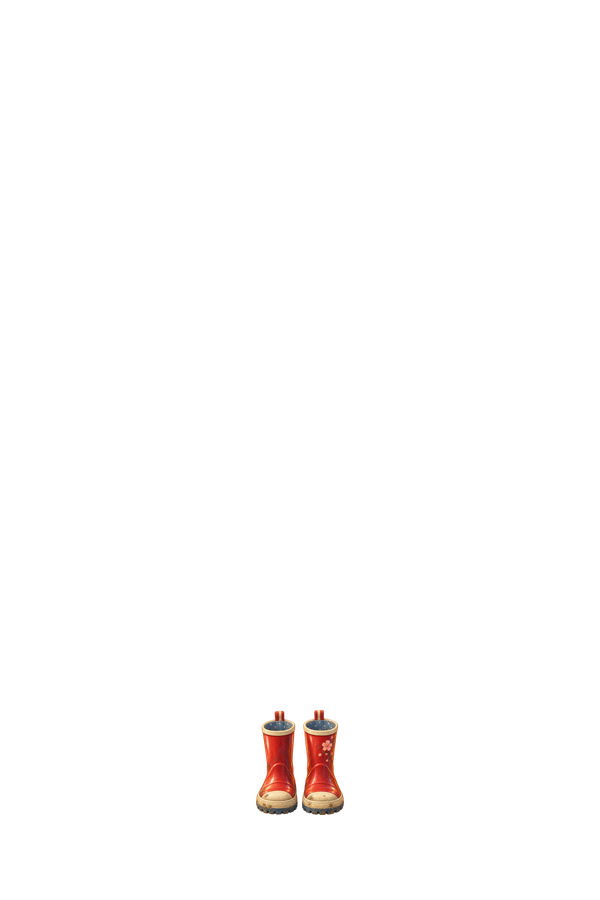
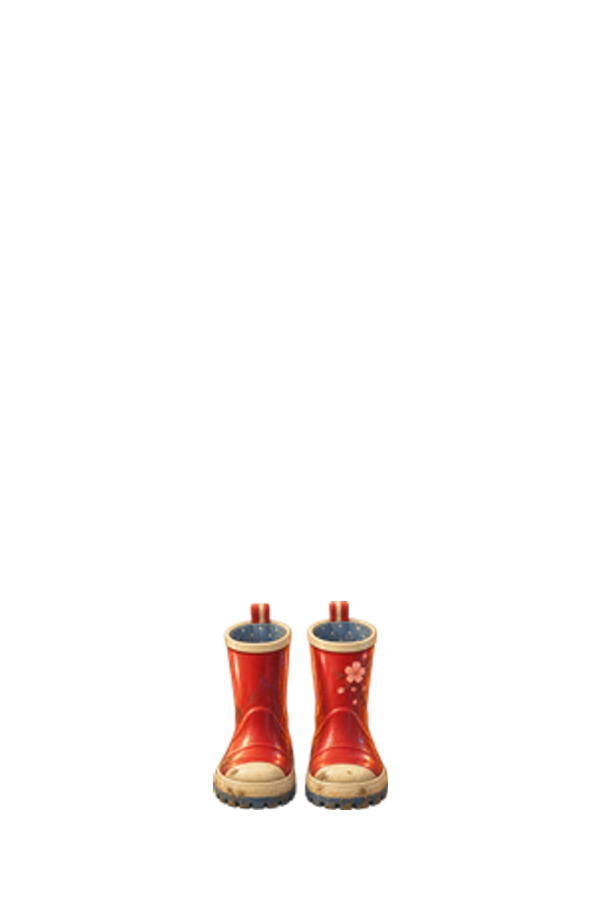
Fix API build errors, doll body-to-garment scale, and layering order
API errors (Vercel's build uses NodeNext module resolution, stricter than
local tsconfig.server.json):
- Added explicit .js extensions to relative imports across server/closet/*.ts
  and api/admin/closet/*.ts
- Added `with { type: 'json' }` import attribute for garmentManifest.ts's
  JSON import
- Fixed a Buffer/BlobPart type mismatch in openaiClient.ts

Body-to-garment scale calibration:
- Measured the doll's actual body/vector-fallback widths at each documented
  anchor line. At ankleY the bare leg is ~150px and both bottom-garment
  fallbacks land at 146-189px wide, but the 3 shoe assets were only 68-115px
  — the shoes slot's height:105 forced every shoe (including naturally taller
  high-tops/boots) to downscale far more than intended. Rescaled all 3 shoe
  assets to ~175px wide, anchored to the ground line, and corrected
  SLOT_BOUNDS.shoes (height 105 -> 220) so future shoe generations don't
  repeat this.
- Removed the base doll's bare-arm silhouette (hands-in-pockets pose, per
  request) — it doesn't need to be drawn from the front, which also
  eliminates the arm/shoulder mismatch various tops had at the sleeve line.
- Swapped z-index/paint order so bottoms render over shoes and tops render
  over bottoms (natural pant-leg-over-shoe, shirt-tucked-in draping), for
  both the illustrated-layer CSS and the SVG fallback paint order.

Verified across 3 outfit combinations (stripe tee/jeans/high-tops +
raincoat; sunset tee/wide-leg pants/boots; adventure shirt/jeans/
[…]

Changed region(s): [[0.36, 0.6533, 0.66, 0.9022]]

diff --git a/src/LittleJetterApp.tsx b/src/LittleJetterApp.tsx
@@ -69,7 +69,7 @@ type Character = { style: string; skin: string; hair: string; hairStyle: string;
 type SavedLook = { id: string; name: string; picks: Picks; character: Character; colors: GarmentColors };
 
 const CLOSET_GROUPS: ClothingGroup[] = ['bottoms', 'tops', 'layers', 'shoes', 'accessories'];
-const LAYERS = { base: 0, hairBack: 10, bottom: 20, top: 30, dress: 35, shoes: 40, outerwear: 50, hairFront: 60, accessory: 70, hat: 80 } as const;
+const LAYERS = { base: 0, hairBack: 10, shoes: 20, bottom: 25, top: 30, dress: 35, outerwear: 50, hairFront: 60, accessory: 70, hat: 80 } as const;
 
 const gameSheets: Record<PickGroup, string> = {
   tops: '/little-jetter/game-tops.png', bottoms: '/little-jetter/game-bottoms.png', layers: '/little-jetter/game-layers.png',
@@ -118,7 +118,10 @@ function ClassicDoll({ picks, character, garmentColors, onlyLayer, previewViewBo
   return <svg className={`little-aligned-doll ${onlyLayer ? 'little-garment-canvas' : ''}`} viewBox={previewViewBox} style={{ '--top-fill': top, '--bottom-fill': bottom, '--layer-fill': layer ?? 'transparent', '--shoe-fill': shoes } as React.CSSProperties} data-master-canvas="600x900" data-hidden-layers={hiddenLayers.join(' ')} data-only-layer={onlyLayer} data-layer-map={JSON.stringify(LAYERS)} role="img" aria-label={onlyLayer ? `${onlyLayer} garment preview` : `Doll in a base outfit wearing ${wardrobe.tops.find(item=>item.id===picks.tops)?.name}, ${wardrobe.bottoms.find(item=>item.id===picks.bottoms)?.name}, and ${wardrobe.shoes.find(item=>item.id===picks.shoes)?.name}`}>
     <defs><radialGradient id="skinGlow" cx="34%" cy="20%" r="82%"><stop stopColor="#fff" stopOpacity=".48"/><stop offset=".42" stopColor={skin}/><stop offset=".82" stopColor={skin}/><stop offset="1" stopColor="#70432f" stopOpacity=".3"/></radialGradient><linearGradient id="skinBody" x1=".18" y1="0" x2=".82" y2="1"><stop stopColor="#fff" stopOpacity=".3"/><stop offset=".3" stopColor={skin}/><stop offset="1" stopColor="#70432f" stopOpacity=".23"/></linearGradient><linearGradient id="underTop" x1="0" y1="0" x2="1" y2="1"><stop stopColor="#fffdf6"/><stop offset=".55" stopColor="#fff3d8"/><stop offset="1" stopColor="#dfc397"/></linearGradient><linearGradient id="underBottom" x1="0" y1="0" x2="1" y2="1"><stop stopColor="#8eabc2"/><stop offset=".55" stopColor="#607f9d"/><stop offset="1" stopColor="#405f7c"/></linearGradient><linearGradient id="hairShade" x1=".2" y1="0" x2=".8" y2="1"><stop stopColor="#fff" stopOpacity=".24"/><stop offset=".28" stopColor={hair}/><stop offset="1" stopColor="#211a19" stopOpacity=".46"/></linearGradient><linearGradient id="topShade" x1=".15" y1="0" x2=".85" y2="1"><stop stopColor="#fff" stopOpacity=".4"/><stop offset=".45" stopColor={top}/><stop offset="1" stopColor="#173a47" stopOpacity=".2"/></linearGradient><linearGradient id="bottomShade" x1=".1" y1="0" x2=".9" y2="1"><stop stopColor="#fff" stopOpacity=".26"/><stop offset=".42" stopColor={bottom}/><stop offset="1" stopColor="#173a47" stopOpacity=".25"/></linearGradient><linearGradient id="layerShade" x1=".1" y1="0" x2=".9" y2="1"><stop stopColor="#fff" stopOpacity=".4"/><stop offset=".48" stopColor={layer}/><stop offset="1" stopColor="#173a47" stopOpacity=".22"/></linearGradient><linearGradient id="shoeShade" x1=".15" y1="0" x2=".85" y2="1"><stop stopColor="#fff" stopOpacity=".3"/><stop offset=".44" stopColor={shoes}/><stop offset="1" stopColor="#173a47" stopOpacity=".28"/></linearGradient><filter id="softShadow"><feDropShadow dx="0" dy="4" stdDeviation="5" floodColor="#173a47" floodOpacity=".18"/></filter><filter id="neckBlend" x="-60%" y="-60%" width="220%" height="220%"><feGaussianBlur stdDeviation="3.2"/></filter></defs>
     <g transform="scale(1.5)"><ellipse cx="200" cy="520" rx="82" ry="13" fill="#173a47" opacity=".16" filter="url(#softShadow)"/>
-    <g data-layer="base"><path d="M157 220q-24 24-35 83l-8 83q-2 20 14 23 17 2 20-17l12-75 15-53zm86 0q24 24 35 83l8 83q2 20-14 23-17 2-20-17l-12-75-15-53z" fill="url(#skinBody)"/><path d="M174 329l-15 145-8 31q-4 17 12 22 16 4 23-14l14-54 14 54q7 18 23 14 16-5 12-22l-8-31-15-145z" fill="url(#skinBody)"/><path d="M184 194h32l6 32h-44z" fill="url(#skinBody)"/><ellipse cx="200" cy="196" rx="19" ry="7" fill="#70432f" opacity=".14" filter="url(#neckBlend)"/><ellipse cx="200" cy="223" rx="27" ry="9" fill="#70432f" opacity=".22" filter="url(#neckBlend)"/><ellipse cx="143" cy="151" rx="12" ry="18" fill="url(#skinBody)"/><ellipse cx="257" cy="151" rx="12" ry="18" fill="url(#skinBody)"/><circle cx="200" cy="145" r="63" fill="url(#skinGlow)"/><ellipse cx="182" cy="155" rx="12" ry="14" fill="#fffaf4"/><ellipse cx="218" cy="155" rx="12" ry="14" fill="#fffaf4"/><circle cx="182" cy="157" r="7" fill={eyes}/><circle cx="218" cy="157" r="7" fill={eyes}/><circle cx="179" cy="153" r="2.7" fill="white"/><circle cx="215" cy="153" r="2.7" fill="white"/><path d="M169 136q13-8 25 0m12 0q12-8 25 0" fill="none" stroke={hair} strokeOpacity=".7" strokeWidth="4" strokeLinecap="round"/><path d="M201 157q-5 11 1 15" fill="none" stroke="#8d5847" strokeOpacity=".45" strokeWidth="2.5" strokeLinecap="round"/><path d="M184 181q16 15 32 0" fill="#c85f61" fillOpacity=".16" stroke="#9b4d46" strokeWidth="3.2" strokeLinecap="round"/><ellipse cx="163" cy="174" rx="12" ry="7" fill="#ef8f80" opacity=".26"/><ellipse cx="237" cy="174" rx="12" ry="7" fill="#ef8f80" opacity=".26"/>{character.style === 'girl' && <><path d="M169 150l-5-3m68 3 5-3" stroke={hair} strokeWidth="2.5" strokeLinecap="round"/><circle cx="171" cy="173" r="1.5" fill="#9b5b4b" opacity=".5"/><circle cx="176" cy="176" r="1.4" fill="#9b5b4b" opacity=".45"/><circle cx="229" cy="173" r="1.5" fill="#9b5b4b" opacity=".5"/><circle cx="224" cy="176" r="1.4" fill="#9b5b4b" opacity=".45"/></>}</g>
+    {/* Arms are tucked behind the back (hands-in-pockets pose) — not drawn from
+     the front, so no bare-arm shape has to visually match every top's sleeve
+     coverage at the shoulder line. */}
+    <g data-layer="base"><path d="M174 329l-15 145-8 31q-4 17 12 22 16 4 23-14l14-54 14 54q7 18 23 14 16-5 12-22l-8-31-15-145z" fill="url(#skinBody)"/><path d="M184 194h32l6 32h-44z" fill="url(#skinBody)"/><ellipse cx="200" cy="196" rx="19" ry="7" fill="#70432f" opacity=".14" filter="url(#neckBlend)"/><ellipse cx="200" cy="223" rx="27" ry="9" fill="#70432f" opacity=".22" filter="url(#neckBlend)"/><ellipse cx="143" cy="151" rx="12" ry="18" fill="url(#skinBody)"/><ellipse cx="257" cy="151" rx="12" ry="18" fill="url(#skinBody)"/><circle cx="200" cy="145" r="63" fill="url(#skinGlow)"/><ellipse cx="182" cy="155" rx="12" ry="14" fill="#fffaf4"/><ellipse cx="218" cy="155" rx="12" ry="14" fill="#fffaf4"/><circle cx="182" cy="157" r="7" fill={eyes}/><circle cx="218" cy="157" r="7" fill={eyes}/><circle cx="179" cy="153" r="2.7" fill="white"/><circle cx="215" cy="153" r="2.7" fill="white"/><path d="M169 136q13-8 25 0m12 0q12-8 25 0" fill="none" stroke={hair} strokeOpacity=".7" strokeWidth="4" strokeLinecap="round"/><path d="M201 157q-5 11 1 15" fill="none" stroke="#8d5847" strokeOpacity=".45" strokeWidth="2.5" strokeLinecap="round"/><path d="M184 181q16 15 32 0" fill="#c85f61" fillOpacity=".16" stroke="#9b4d46" strokeWidth="3.2" strokeLinecap="round"/><ellipse cx="163" cy="174" rx="12" ry="7" fill="#ef8f80" opacity=".26"/><ellipse cx="237" cy="174" rx="12" ry="7" fill="#ef8f80" opacity=".26"/>{character.style === 'girl' && <><path d="M169 150l-5-3m68 3 5-3" stroke={hair} strokeWidth="2.5" strokeLinecap="round"/><circle cx="171" cy="173" r="1.5" fill="#9b5b4b" opacity=".5"/><circle cx="176" cy="176" r="1.4" fill="#9b5b4b" opacity=".45"/><circle cx="229" cy="173" r="1.5" fill="#9b5b4b" opacity=".5"/><circle cx="224" cy="176" r="1.4" fill="#9b5b4b" opacity=".45"/></>}</g>
     <g key={`${hairStyle}-${character.hair}`} data-layer="hair" data-hair-style={hairStyle} filter="url(#softShadow)">
       {hairStyle === 'short' && <><path d="M143 145q2-71 57-71 58 0 57 73-18-38-57-38-38 0-57 36z" fill={hair} stroke="#173a47" strokeWidth="5"/><path d="M153 111q47-34 94 5" fill="none" stroke="white" strokeOpacity=".13" strokeWidth="7" strokeLinecap="round"/></>}
       {hairStyle === 'bob' && <><path d="M137 150q-3-84 63-84 67 0 64 84l-9 63-30-13 7-74q-32-29-64 0l7 74-30 13z" fill={hair} stroke="#173a47" strokeWidth="5"/><path d="M158 105q42-29 83 4" fill="none" stroke="white" strokeOpacity=".14" strokeWidth="7" strokeLinecap="round"/></>}
@@ -126,9 +129,9 @@ function ClassicDoll({ picks, character, garmentColors, onlyLayer, previewViewBo
       {hairStyle === 'curls' && <><path d="M139 147q-5-81 61-81 68 0 62 84-17-47-62-47-43 0-61 44z" fill={hair} stroke="#173a47" strokeWidth="5"/>{[146,164,182,218,236,254].map((x,index)=><circle key={x} cx={x} cy={index%2?91:108} r="18" fill={hair} stroke="#173a47" strokeWidth="3"/>)}<path d="M156 116q44-39 88 0" fill="none" stroke="white" strokeOpacity=".13" strokeWidth="7" strokeLinecap="round"/></>}
     </g>
     <g data-layer="base-outfit"><path d="M163 207q37-17 74 0l10 122q-47 18-94 0z" fill="url(#underTop)"/><path d="M154 320h92l5 83-43 5-8-49-8 49-43-5z" fill="url(#underBottom)"/><path d="M175 211q25 24 50 0" fill="none" stroke="#e7cda4" strokeWidth="5"/><path d="M162 316q38 12 76 0" fill="none" stroke="#fff" strokeOpacity=".45" strokeWidth="4"/><circle cx="200" cy="286" r="6" fill="#e85849"/></g>
+    <g key={picks.shoes} data-layer="shoes" filter="url(#softShadow)"><ellipse cx="160" cy="509" rx="45" ry="9" fill="#173a47" opacity=".18"/><ellipse cx="240" cy="509" rx="45" ry="9" fill="#173a47" opacity=".18"/><path d={picks.shoes==='boots'?'M136 440q29 7 58 0l1 65q-42 18-76-2zm70 0q29 7 58 0l17 63q-34 20-76 2z':'M139 461q27 8 55 0l1 42q-43 20-76-1zm67 0q27 8 55 0l20 41q-33 21-76 1z'} fill="url(#shoeShade)" stroke="#173a47" strokeWidth="5"/><path d="M139 484q24 7 48 0m26 0q24 7 48 0" stroke="white" strokeWidth="5"/>{(picks.shoes==='sneakers'||picks.shoes==='high-tops')&&<><path d="M151 466l25 28m-9-30 19 22m63-20-25 28m9-30-19 22" stroke="white" strokeWidth="4"/></>}</g>
     <g key={picks.bottoms} data-layer="bottom" filter="url(#softShadow)">{isSkirt?<><path d="M155 319q45 10 90 0l23 130q-68 29-136 0z" fill={bottom} stroke="#173a47" strokeWidth="4"/><path d="M158 330q42 9 84 0" fill="none" stroke="white" strokeOpacity=".38" strokeWidth="6"/><path d="M177 343l-16 91m62-91 16 91" stroke="white" strokeOpacity=".2" strokeWidth="4"/></>:<><path d={isShorts?'M153 319q47 10 94 0l7 80q-22 9-45 3l-9-43-9 43q-23 6-45-3z':'M155 319q45 10 90 0l10 149q-22 8-43 0l-12-108-12 108q-21 8-43 0z'} fill="url(#bottomShade)" stroke="#173a47" strokeWidth="4"/><path d="M159 331q41 9 82 0" fill="none" stroke="white" strokeOpacity=".38" strokeWidth="6"/>{picks.bottoms==='travel-jeans'&&<><path d="M166 350q8 58 2 101m66-101q-8 58-2 101" stroke="#d9eef5" strokeOpacity=".42" strokeWidth="3" strokeDasharray="5 5"/><path d="M200 329v34" stroke="#173a47" strokeWidth="3"/><path d="M176 337q8 14 19 9m29-9q-8 14-19 9" fill="none" stroke="#d9eef5" strokeOpacity=".38" strokeWidth="3"/></>}</>}</g>
     <g key={picks.tops} data-layer="top" filter="url(#softShadow)"><path d={isDress?'M149 225q22-17 43-13l8 17 8-17q21-4 43 13l13 88 34 104q-98 42-196 0l34-104z':'M150 225q22-17 42-13l8 17 8-17q20-4 42 13l18 88q-68 34-136 0z'} fill="url(#topShade)" stroke="#173a47" strokeWidth="4"/><path d={isSweater?'M151 231q-17 16-45 53l25 24 34-48m84-29q17 16 45 53l-25 24-34-48':'M151 233q-15 13-37 40l24 20 27-39m84-21q15 13 37 40l-24 20-27-39'} fill={top} stroke="#173a47" strokeWidth="4"/><path d="M180 216q20 25 40 0" fill="none" stroke="#fff8e8" strokeOpacity=".9" strokeWidth="6"/><path d="M144 311q56 17 112 0" fill="none" stroke="#173a47" strokeOpacity=".2" strokeWidth="3"/>{picks.tops==='stripe'&&[251,274,297].map(y=><path key={y} d={`M139 ${y}q61 14 122 0`} stroke="#fff8e8" strokeWidth="10"/>)}{picks.tops==='adventure-shirt'&&<><path d="M178 219l22 25 22-25" fill="#fff8e8" stroke="#173a47" strokeWidth="3"/><rect x="217" y="264" width="27" height="24" rx="3" fill="#fff8e8" stroke="#173a47" strokeWidth="3"/><path d="M200 244v68" stroke="#fff8e8" strokeOpacity=".65" strokeWidth="3"/></>}{picks.tops==='sweater'&&<><path d="M169 244q31 27 62 0M165 278q35 25 70 0" fill="none" stroke="white" strokeOpacity=".25" strokeWidth="5"/><path d="M137 298l2 14m122-14-2 14" stroke="#fff" strokeOpacity=".45" strokeWidth="5"/></>}</g>
-    <g key={picks.shoes} data-layer="shoes" filter="url(#softShadow)"><ellipse cx="160" cy="509" rx="45" ry="9" fill="#173a47" opacity=".18"/><ellipse cx="240" cy="509" rx="45" ry="9" fill="#173a47" opacity=".18"/><path d={picks.shoes==='boots'?'M136 440q29 7 58 0l1 65q-42 18-76-2zm70 0q29 7 58 0l17 63q-34 20-76 2z':'M139 461q27 8 55 0l1 42q-43 20-76-1zm67 0q27 8 55 0l20 41q-33 21-76 1z'} fill="url(#shoeShade)" stroke="#173a47" strokeWidth="5"/><path d="M139 484q24 7 48 0m26 0q24 7 48 0" stroke="white" strokeWidth="5"/>{(picks.shoes==='sneakers'||picks.shoes==='high-tops')&&<><path d="M151 466l25 28m-9-30 19 22m63-20-25 28m9-30-19 22" stroke="white" strokeWidth="4"/></>}</g>
     {layer&&<g key={picks.layers} data-layer="outerwear" filter="url(#softShadow)"><path d="M139 222q23-14 51-14l-12 52-12 110-52-8 10-82z" fill="url(#layerShade)" stroke="#173a47" strokeWidth="5"/><path d="M261 222q-23-14-51-14l12 52 12 110 52-8-10-82z" fill="url(#layerShade)" stroke="#173a47" strokeWidth="5"/><path d="M190 208l10 38 10-38 20 31-10 25-20-18-20 18-10-25z" fill="#fff8e8" fillOpacity=".94" stroke="#173a47" strokeWidth="4"/><path d="M142 327q16 6 32 0m52 0q16 6 32 0" stroke="#fff8e8" strokeOpacity=".76" strokeWidth="5"/><path d="M162 224q-9 68-7 129m83-129q9 68 7 129" fill="none" stroke="white" strokeOpacity=".28" strokeWidth="4"/><circle cx="181" cy="277" r="5" fill="#173a47"/><circle cx="219" cy="277" r="5" fill="#173a47"/></g>}
     <g key={picks.accessories} data-layer="accessory" filter="url(#softShadow)">{picks.accessories==='sun-glasses'?<><circle cx="178" cy="155" r="22" fill="#90d1dc" fillOpacity=".45" stroke="#173a47" strokeWidth="7"/><circle cx="222" cy="155" r="22" fill="#90d1dc" fillOpacity=".45" stroke="#173a47" strokeWidth="7"/><path d="M200 155h1" stroke="#173a47" strokeWidth="7"/></>:picks.accessories==='crossbody'||picks.accessories==='mini-camera'?<><path d="M255 292l42 15-13 92-58-15z" fill={picks.accessories==='mini-camera'?'#345c68':'#9b6448'} stroke="#173a47" strokeWidth="5"/><path d="M238 294q13-50 45 3" fill="none" stroke="#173a47" strokeWidth="6"/><circle cx="263" cy="343" r="17" fill="#bfe3e6" stroke="#173a47" strokeWidth="5"/></>:<><path d={picks.accessories==='bucket-hat'?'M142 122q58-55 116 0l-9 31h-98z':'M151 109q49-47 98 0l8 43H143z'} fill={picks.accessories==='bucket-hat'?'#39a29a':'#e67b43'} stroke="#173a47" strokeWidth="5"/><path d="M140 145q69-18 126 8" fill="none" stroke="#173a47" strokeWidth="9"/><circle cx="180" cy="111" r="9" fill="#f1bd42"/></>}</g></g>
   </svg>;

diff --git a/src/little-jetter.css b/src/little-jetter.css
@@ -351,7 +351,7 @@
 .little-find-game{display:grid;gap:12px}.little-find-scene{position:relative;min-height:300px;overflow:hidden;border:7px solid #fffaf0;outline:1px solid rgba(24,59,72,.2);box-shadow:5px 6px 0 rgba(24,59,72,.1)}.little-find-scene>img{width:100%;height:100%;min-height:300px;display:block;object-fit:cover}.little-hotspot{position:absolute;width:48px;height:48px;border:2px dashed #fffaf0;border-radius:50%;background:rgba(24,59,72,.78);color:white;box-shadow:0 0 0 4px rgba(232,88,73,.38);cursor:pointer;animation:little-hotspot-pulse 1.5s ease-in-out infinite}.little-hotspot span{font:800 16px 'DM Sans',sans-serif}.little-hotspot.is-found{background:var(--teal);animation:little-stamp-slam .5s cubic-bezier(.15,1.5,.35,1) both}.hotspot-1{left:12%;top:58%}.hotspot-2{left:42%;top:66%}.hotspot-3{right:15%;top:24%}.hotspot-4{right:30%;top:52%}@keyframes little-hotspot-pulse{50%{transform:scale(1.1);box-shadow:0 0 0 8px rgba(232,88,73,.18)}}.little-notice-grid>div{position:relative;border:1px solid rgba(24,59,72,.16);border-radius:10px;background:white;color:var(--ink);padding:10px;display:flex;flex-direction:column;gap:8px}.little-notice-grid>div>b{position:absolute;top:7px;left:7px;padding:3px 5px;border-radius:99px;background:#183b48;color:white;font-size:6px;text-transform:uppercase;letter-spacing:.08em}.little-notice-grid>div.is-found{border:2px solid var(--teal);background:#e1f4ee;box-shadow:0 4px 0 rgba(46,156,151,.18)}.little-notice-grid>div.is-found>b{background:var(--teal)}
 .little-type-filter{position:relative}.little-type-filter::before,.little-type-filter::after{position:absolute;z-index:5;top:50%;transform:translateY(-50%);display:grid;place-items:center;width:24px;height:34px;color:#f4bd61;background:linear-gradient(90deg,#102d37 35%,transparent);font-size:19px;pointer-events:none}.little-type-filter::before{content:'‹';left:145px}.little-type-filter::after{content:'›';right:0;background:linear-gradient(-90deg,#102d37 35%,transparent)}
 .little-passport-pill,.little-weather,.little-day-card{border:1px dashed rgba(24,59,72,.34)!important;background:rgba(255,250,240,.88)!important;box-shadow:3px 4px 0 rgba(24,59,72,.09)}.little-weather{padding:7px 9px}.little-day-card{outline:3px double rgba(232,88,73,.22);outline-offset:-5px}
-.little-catalog-doll{position:absolute;z-index:3;inset:0;width:100%;height:100%;pointer-events:none}.little-catalog-doll .little-aligned-doll{z-index:0!important}.little-illustrated-layer{position:absolute;inset:0;width:100%;height:100%;object-fit:contain;pointer-events:none;filter:drop-shadow(0 3px 4px rgba(0,0,0,.15));animation:little-choice-pop .42s cubic-bezier(.2,1.4,.4,1) both}.little-illustrated-layer.layer-bottom{z-index:2}.little-illustrated-layer.layer-top{z-index:3}.little-illustrated-layer.layer-shoes{z-index:4}.little-illustrated-layer.layer-outerwear{z-index:5;filter:drop-shadow(0 4px 6px rgba(0,0,0,.2))}.little-illustrated-layer.layer-accessory{z-index:7}.little-aligned-doll[data-hidden-layers~='bottom'] [data-layer='bottom'],.little-aligned-doll[data-hidden-layers~='top'] [data-layer='top'],.little-aligned-doll[data-hidden-layers~='outerwear'] [data-layer='outerwear'],.little-aligned-doll[data-hidden-layers~='shoes'] [data-layer='shoes'],.little-aligned-doll[data-hidden-layers~='accessory'] [data-layer='accessory']{display:none}.little-garment-preview .little-catalog-preview{position:absolute;inset:0;width:100%;height:100%;object-fit:contain;filter:drop-shadow(0 5px 5px rgba(23,58,71,.2))}.little-garment-preview.preview-tops .little-catalog-preview,.little-garment-preview.preview-layers .little-catalog-preview{transform:scale(2.4)}.little-garment-preview.preview-bottoms .little-catalog-preview{transform:scale(1.85)}.little-garment-preview.preview-shoes .little-catalog-preview{transform-origin:50% 84%;transform:scale(3)}.little-garment-preview.preview-accessories .little-catalog-preview{transform:scale(1.85)}
+.little-catalog-doll{position:absolute;z-index:3;inset:0;width:100%;height:100%;pointer-events:none}.little-catalog-doll .little-aligned-doll{z-index:0!important}.little-illustrated-layer{position:absolute;inset:0;width:100%;height:100%;object-fit:contain;pointer-events:none;filter:drop-shadow(0 3px 4px rgba(0,0,0,.15));animation:little-choice-pop .42s cubic-bezier(.2,1.4,.4,1) both}.little-illustrated-layer.layer-shoes{z-index:2}.little-illustrated-layer.layer-bottom{z-index:3}.little-illustrated-layer.layer-top{z-index:4}.little-illustrated-layer.layer-outerwear{z-index:5;filter:drop-shadow(0 4px 6px rgba(0,0,0,.2))}.little-illustrated-layer.layer-accessory{z-index:7}.little-aligned-doll[data-hidden-layers~='bottom'] [data-layer='bottom'],.little-aligned-doll[data-hidden-layers~='top'] [data-layer='top'],.little-aligned-doll[data-hidden-layers~='outerwear'] [data-layer='outerwear'],.little-aligned-doll[data-hidden-layers~='shoes'] [data-layer='shoes'],.little-aligned-doll[data-hidden-layers~='accessory'] [data-layer='accessory']{display:none}.little-garment-preview .little-catalog-preview{position:absolute;inset:0;width:100%;height:100%;object-fit:contain;filter:drop-shadow(0 5px 5px rgba(23,58,71,.2))}.little-garment-preview.preview-tops .little-catalog-preview,.little-garment-preview.preview-layers .little-catalog-preview{transform:scale(2.4)}.little-garment-preview.preview-bottoms .little-catalog-preview{transform:scale(1.85)}.little-garment-preview.preview-shoes .little-catalog-preview{transform-origin:50% 84%;transform:scale(3)}.little-garment-preview.preview-accessories .little-catalog-preview{transform:scale(1.85)}
 @media(max-width:520px){.little-type-filter::before{left:0;top:72%}.little-type-filter::after{top:72%}.little-find-scene,.little-find-scene>img{min-height:230px}.little-hotspot{width:42px;height:42px}.little-travel-confirmation{top:68px}}
 @media (prefers-reduced-motion: reduce) {
   .little-destination,.little-begin { transition:none; }.little-confetti,.little-more-choices,.little-surprise-bar button,.little-destination-icon,.little-choice-modal > div,.little-popup-products button,[aria-pressed='true'],.little-flying-plane,.little-moving-train,.little-cloud,.little-compass,.little-compass i,.little-departure-board,.little-product-departures button,.little-travel-toggle,.little-game-panel,.little-avatar span,.little-suitcase,.little-suitcase>div span,.little-earned-stamp,.little-shop-drawer .little-product-grid,.little-product-grid article,.little-task-drawer[open]>:not(summary),.little-parent-modal>div,.little-section-art img { animation:none!important; }

diff --git a/server/closet/assetSpec.ts b/server/closet/assetSpec.ts
@@ -17,11 +17,23 @@ export type ClosetSlot = 'hair' | 'top' | 'bottom' | 'outerwear' | 'shoes' | 'ac
 
 export type SlotBounds = { left: number; top: number; width: number; height: number; layer: number };
 
+// Measured directly from the doll's bare body silhouette (not guessed): at
+// ankleY (760) the bare leg is ~150px wide, and the two bottom-garment vector
+// fallbacks land at ~146-189px wide there. A shoe pair's own width at that
+// line must land in the same ~150-190px range or the pant hem visibly floats
+// above the shoe instead of draping down over it — this was the actual bug
+// behind "shoes render smaller than the pant ankle width" (fixed 2026-09-03
+// by rescaling the 3 Tokyo shoe assets to ~175px wide). The old shoes slot
+// (height: 105) was itself the root cause: it forced every shoe — including
+// naturally taller high-tops/boots — to downscale to fit 105px of height,
+// which shrank width well below the ~150-190px target. The slot below is
+// corrected for that; regenerate/rescale any new shoe asset to land in the
+// same ~150-190px range at ankleY, not just "fit inside this box."
 export const SLOT_BOUNDS: Record<ClosetSlot, SlotBounds> = {
   hair: { left: 190, top: 70, width: 220, height: 245, layer: 60 },
   top: { left: 145, top: 315, width: 310, height: 175, layer: 30 },
   bottom: { left: 170, top: 465, width: 260, height: 305, layer: 20 },
   outerwear: { left: 130, top: 300, width: 340, height: 275, layer: 50 },
-  shoes: { left: 170, top: 710, width: 260, height: 105, layer: 40 },
+  shoes: { left: 170, top: 590, width: 260, height: 220, layer: 40 },
   accessory: { left: 275, top: 330, width: 190, height: 270, layer: 70 },
 };

diff --git a/server/closet/generateClosetAsset.ts b/server/closet/generateClosetAsset.ts
@@ -1,12 +1,12 @@
 import { promises as fs } from 'node:fs';
 import path from 'node:path';
-import { buildGenerationPrompt, STYLE_VERSION } from './stylePrompt';
-import { generateClosetImage } from './openaiClient';
-import { normalizeToClosetCanvas, qcCheck } from './imageProcessing';
-import { getClosetAssetStorage } from './storage';
-import type { ClosetSlot } from './assetSpec';
-import type { QcResult } from './imageProcessing';
-import type { SavedClosetAsset } from './storage';
+import { buildGenerationPrompt, STYLE_VERSION } from './stylePrompt.js';
+import { generateClosetImage } from './openaiClient.js';
+import { normalizeToClosetCanvas, qcCheck } from './imageProcessing.js';
+import { getClosetAssetStorage } from './storage.js';
+import type { ClosetSlot } from './assetSpec.js';
+import type { QcResult } from './imageProcessing.js';
+import type { SavedClosetAsset } from './storage.js';
 
 const GENERATION_MODEL = process.env.OPENAI_IMAGE_MODEL ?? 'gpt-image-2';
 

diff --git a/api/admin/closet/generate-destination.ts b/api/admin/closet/generate-destination.ts
@@ -1,7 +1,7 @@
 import type { VercelRequest, VercelResponse } from '@vercel/node';
-import { generateClosetAsset } from '../../../server/closet/generateClosetAsset';
-import { REFERENCE_ASSET_URLS, TOKYO_GENERATION_MANIFEST } from '../../../server/closet/tokyoManifest';
-import type { GenerationManifestEntry } from '../../../server/closet/tokyoManifest';
+import { generateClosetAsset } from '../../../server/closet/generateClosetAsset.js';
+import { REFERENCE_ASSET_URLS, TOKYO_GENERATION_MANIFEST } from '../../../server/closet/tokyoManifest.js';
+import type { GenerationManifestEntry } from '../../../server/closet/tokyoManifest.js';
 
 // Add a destination's manifest here once it has one (see server/closet/tokyoManifest.ts).
 const MANIFESTS: Record<string, GenerationManifestEntry[]> = {

diff --git a/api/admin/closet/generate.ts b/api/admin/closet/generate.ts
@@ -1,8 +1,8 @@
 import type { VercelRequest, VercelResponse } from '@vercel/node';
-import { generateClosetAsset } from '../../../server/closet/generateClosetAsset';
-import { REFERENCE_ASSET_URLS } from '../../../server/closet/tokyoManifest';
-import type { ReferenceAssetKey } from '../../../server/closet/tokyoManifest';
-import type { ClosetSlot } from '../../../server/closet/assetSpec';
+import { generateClosetAsset } from '../../../server/closet/generateClosetAsset.js';
+import { REFERENCE_ASSET_URLS } from '../../../server/closet/tokyoManifest.js';
+import type { ReferenceAssetKey } from '../../../server/closet/tokyoManifest.js';
+import type { ClosetSlot } from '../../../server/closet/assetSpec.js';
 
 type RequestBody = {
   destination?: string;

diff --git a/server/closet/tokyoManifest.ts b/server/closet/tokyoManifest.ts
@@ -3,8 +3,8 @@
 // client also reads (to badge un-illustrated drawer items). This file only adds
 // generation-specific metadata on top of that same list: prompts, color variants,
 // and which existing reference asset to steer style from.
-import { PENDING_TOKYO_GARMENTS, catalogAssetPath } from '../../src/data/garmentManifest';
-import type { ClosetSlot } from './assetSpec';
+import { PENDING_TOKYO_GARMENTS, catalogAssetPath } from '../../src/data/garmentManifest.js';
+import type { ClosetSlot } from './assetSpec.js';
 
 export type ReferenceAssetKey = 'stripe' | 'rain' | 'travel-jeans' | 'sneakers' | 'crossbody';
 

diff --git a/server/closet/openaiClient.ts b/server/closet/openaiClient.ts
@@ -32,7 +32,7 @@ export async function generateClosetImage(options: GenerateImageOptions): Promis
     form.append('size', size);
     form.append('background', 'transparent');
     if (options.quality) form.append('quality', options.quality);
-    form.append('image', new Blob([options.referenceImage], { type: 'image/png' }), 'reference.png');
+    form.append('image', new Blob([new Uint8Array(options.referenceImage)], { type: 'image/png' }), 'reference.png');
     response = await fetch('https://api.openai.com/v1/images/edits', {
       method: 'POST',
       headers: { Authorization: `Bearer ${apiKey}` },

diff --git a/src/data/garmentManifest.ts b/src/data/garmentManifest.ts
@@ -4,7 +4,7 @@
 // This file only adds: (1) the canonical path convention, so a contributor never has
 // to hand-type `/little-jetter/catalog/...` paths, and (2) a typed list of what's still
 // pending, so "what's left" doesn't require re-deriving it from the catalog by hand.
-import dressUpCatalog from './dressUpCatalog.json';
+import dressUpCatalog from './dressUpCatalog.json' with { type: 'json' };
 
 export const ASSET_TEMPLATE = {
   id: dressUpCatalog.template.id,

diff --git a/server/closet/stylePrompt.ts b/server/closet/stylePrompt.ts
@@ -1,5 +1,5 @@
-import { CLOSET_CANVAS } from './assetSpec';
-import type { ClosetSlot } from './assetSpec';
+import { CLOSET_CANVAS } from './assetSpec.js';
+import type { ClosetSlot } from './assetSpec.js';
 
 // Bump this whenever MASTER_STYLE_PROMPT, SLOT_FRAMING_INSTRUCTIONS, or a
 // destination's visual language changes in a way that would make an asset

diff --git a/server/closet/catalogWriter.ts b/server/closet/catalogWriter.ts
@@ -1,6 +1,6 @@
 import { promises as fs } from 'node:fs';
 import path from 'node:path';
-import type { ClosetSlot } from './assetSpec';
+import type { ClosetSlot } from './assetSpec.js';
 
 // Writes into the existing catalog — src/data/dressUpCatalog.json — the same file
 // the client app reads. There is deliberately no second/parallel catalog: an item

diff --git a/server/closet/imageProcessing.ts b/server/closet/imageProcessing.ts
@@ -1,6 +1,6 @@
 import sharp from 'sharp';
-import { CLOSET_CANVAS, SLOT_BOUNDS } from './assetSpec';
-import type { ClosetSlot } from './assetSpec';
+import { CLOSET_CANVAS, SLOT_BOUNDS } from './assetSpec.js';
+import type { ClosetSlot } from './assetSpec.js';
 
 /**
  * Trims a generated image to its non-transparent content, scales it to fit inside
